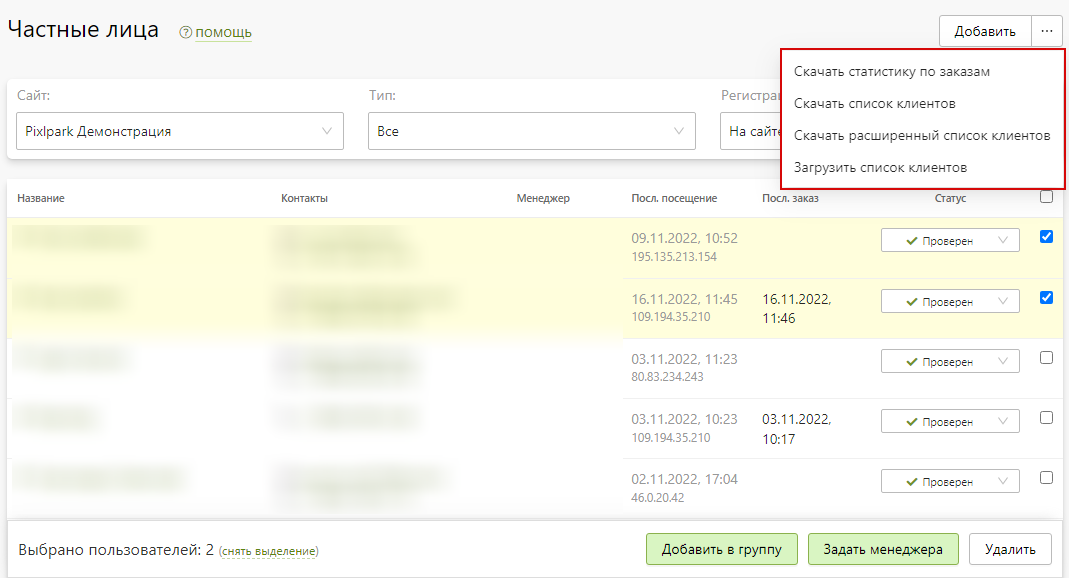
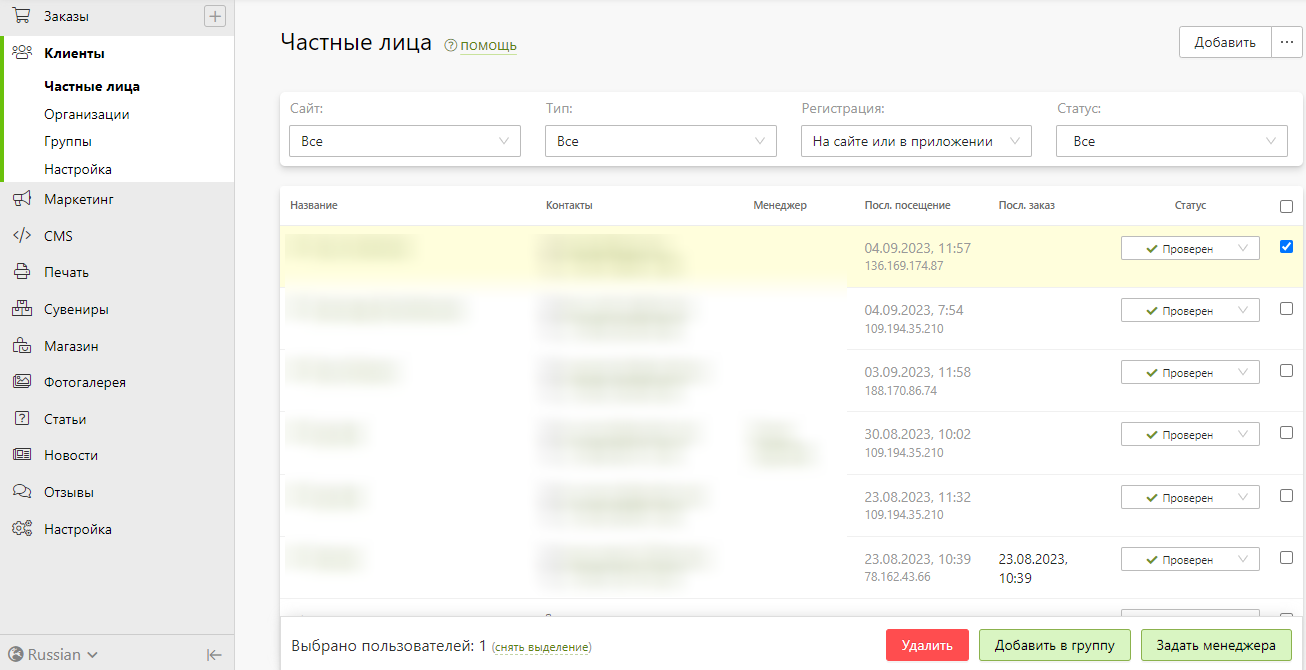
designs

diff --git a/docs/print/designs.md b/docs/print/designs.md
@@ -17,10 +17,14 @@
 * >  Подробнее о подготовке шаблонов можно узнать в [разделе](/design/businesscards).
 
 #### Основная информация
+
 * __Шаблон__ - это типовой дизайн продукта, на основании которого клиент создает собственное оформление. Например, клиент изменяет текст, загружает свои фотографии или даже добавляет новые элементы оформления.
+![](../_media/print/template-general.png)
 
 * __Название на сайте__ - название шаблона, которое выводится на сайте на странице списка шаблонов при наведении на него, на странице шаблона в виде заголовка и в редактора при наведении на шаблон во вкладке "__Шаблоны__".
+
 * __Название в панели управления__ - название шаблона в панели управления. Для удобства работы данное поле может содержать сокращенное название и технические характеристики (например, размер).
+
 * __Номера связанных шаблонов__ - номера связанных шаблонов, перечисленные через запятую. Номер шаблона можно узнать в адресной строке при открытии страницы шаблона в панели управления. Например, если адрес страницы оканчивается на "`/templates/2622444/edit`", то "__2622444__" и будет номером шаблона. При открытии страницы онлайн-редактора на сайте в адресной строке может передаваться номер шаблона, который будет загружаться в редактор для текущего товара. Однако если этот шаблон не связан с товаром, то вместо него по очереди будут пытаться загрузиться  шаблоны, связанные с ним и товаром. Данный механизм связывания используется для шаблонов одного дизайна, но разных форматов. Он нужен, чтобы при переключении товара на сайте в редакторе выбранный шаблон перестраивался под нужный формат товара.
 * __Тип обложки шаблона__ - файл, отображаемый в качестве обложки на странице списка шаблонов:
     + Первый макет шаблона.
@@ -28,20 +32,26 @@
 * __Алгоритм подстановки макетов на поверхность печати__ - автматический выбор макета для поверхности печати:
     + Наиболее подходящий по пропорциям.
     + По порядку.
-* __Автор шаблона__ - струдник компании с ролью "__Дизайнер__", который будет являться автором шаблона. Если у шаблонов задано более одного автора, а на странице списка шалонов на сайте их фильтрация производиться через группу тегов (панель слева), то первой группой тегой будет идти выбор автора. Также данный механизм может использоваться для начисления автору вознаграждения. Для этого в разделе "__Заказы / Статистика / Популярность шаблонов__" в скачиваемой статистике по шаблонам будет указан автор каждого из них. А вознаграждение может быть рассчитано вручную либо от стоимости заказов, либо от цены самого шаблона.
+* __Автор шаблона__ - сотрудник компании с ролью "__Дизайнер__", который будет являться автором шаблона. Если у шаблонов задано более одного автора, а на странице списка шалонов на сайте их фильтрация производиться через группу тегов (панель слева), то первой группой тегой будет идти выбор автора. Также данный механизм может использоваться для начисления автору вознаграждения. Для этого в разделе "__Заказы / Статистика / Популярность шаблонов__" в скачиваемой статистике по шаблонам будет указан автор каждого из них. А вознаграждение может быть рассчитано вручную либо от стоимости заказов, либо от цены самого шаблона.
 * __Тип шаблона__ - типизация шаблона, влияющая на логику работы редактора:
     + __Стандартный__ - шаблон, в котором макеты по умолчанию последовательно применяются к поверхностям печати продукта. В разделе "Дизайнерам" представлены статьи для подготовки макетов [листовой печати](/design/businesscards) и [фотокниг](/design/photobooks).  
-    Пример: [фотокнига](https://demo.pixlpark.ru/printing/hardcover-photobooks-templates/for-15x20-hard), [визитка](https://demo.pixlpark.ru/printing/businesscards-templates/for-90x50-one-sided), [футболка](https://demo.pixlpark.ru/printing/t-shirts-cliparts/for-man-white).
+    Пример: [фотокнига](https://demo.pixlpark.ru/printing/hardcover-photobooks-templates/for-15x20-hard), [визитка](https://demo.pixlpark.ru/printing/sheet-printing-templates/for-90x50-one-sided), [футболка](https://demo.pixlpark.ru/printing/t-shirts-cliparts/for-man-white).
     + __Календарь__ - шаблон, в котором макеты применяются к поверхностям печати продукта с дополнительной логикой. В разделе "Дизайнерам" представлена статья для подготовки макетов [календарей](/design/calendars). Настройка шаблона позволяет клиентам при запуске редактора дизайнов выбирать стартовый и конечный год, а в старом редакторе - еще и месяца.  
     Пример: [перекидной календарь](https://demo.pixlpark.ru/printing/wall-calendars-templates/for-a4-vert), [календарь-плакат](https://demo.pixlpark.ru/printing/poster-calendars-templates/for-a2-vert).
     + __Именная фотокнига__ - шаблон, в котором макеты применяются к поверхностям печати продукта с абсолютно уникальной логикой, учитывая имя, пол и цвет волос ребенка главного персонажа, информацию о которых редактор должен получить заранее. В разделе "Дизайнерам" представлена статья для подготовки макетов [именных фотокниг](/design/named-photobooks).  
     Пример: [детская именная фотокнига](https://demo.pixlpark.ru/photobooks/personalized).
+* __Инициализация шаблона:__
+    + __Согласно настройкам товара__
+    + __Шаблон целиком вписывается в зону печати без вылетов__
+    + __Шаблон целком заполнет зону печати без вылетов__
+    + __Шаблон постранично вписывается в страницы зоны печати без вылетов__ - элементы шаблона будут системно распределены по страницам и вписаны в поверхность печати.
+    + __Шаблон постранично заполняет страницы зоны печати без вылетов__ - элементы шаблона будут системно распределены по страницам и заполнят поверхности печати.
 * __Описание на сайте__ - текстовое описание, выводимое на сайте на странице шаблона. С помощью описания можно сделать страницу шаблона более уникальной для поисковых систем, что в свою очередь отразиться на ранжировании в поисковой выдаче.
 * __Скрывать шаблон на сайте__ - не выводить шаблон на странице списка шаблонов. Однако, страница шаблона по прежнему будет доступна по прямой ссылке (также как и использование шаблона в редакторе по прямой ссылке с передачей его номера в адресной строке). Данная функция может быть полезна для создания непубличных корпоративных дизайнов.
 * __Скрывать шаблон в блоке случайных шаблонов__ - не выводить шаблон в блоке случайных шаблонов. Однако, страница шаблона по прежнему будет доступна по прямой ссылке (также как и использование шаблона в редакторе по прямой ссылке с передачей его номера в адресной строке). Данная функция может быть полезна для создания непубличных корпоративных дизайнов.
 * __Цена__ - стоимость шаблона, которая выводится на странице списка и учитывается при создании заказа.
 * __Обложка шаблона__ - иллюстрация, которая отображается в качестве шаблона на странице списка.
-![](../_media/print/template-general.png)
+
 
 #### Печать переменных данных
 * __Печать переменных данных (VDP)__ - возможность оформления печатной продукции таким образом, что каждый экземпляр тиража обладает индивидуальными данными, при этом общие текстовые и графические элементы остаются неизменными.

diff --git a/docs/customers/b2c.md b/docs/customers/b2c.md
@@ -1,4 +1,63 @@
 # Частные лица
+
+## Список клиентов
+* В разделе представлен список всех клиентов, которые зарегистрированы на уровне аккаунта системы.
+![](../_media/customer/b2c-list.png)
+
+### Фильтрация
+* Список клиентов можно фильтровать по следующим параметрам:
+    + __Сайт__ - название сайта, где клиент был зарегистрирован (актуально, если у вас несколько сайтов). 
+    + __Тип__ - тип клиента:
+        - Все - полный перечень клиентов.
+        - Заказавшие - клиенты, оформившие заказ на сайте.
+        - Потенциальные - клиенты, еще не оформившие заказ, но имеющие добавленные товары в корзину.
+        - Посетители - клиенты, не оформившие заказ и не имеющие товаров в корзине.
+        - Подписчики - клиенты, согласившиеся получать новостную рассылку (на странице регистрации или в профиле клиента).
+        - Отписавшиеся - клиенты, отказавшиеся получать новостную рассылку (на странице регистрации или в профиле клиента).
+    + __Регистрация__ - место регистрации клиента:
+        - На сайте или в приложении.
+        - Только на сайте.
+        - Только в приложении.
+    + __Статус__ - положение клиента в системе:
+        - Зарегистрирован
+        - Проверен
+        - Опасен
+        - Заблокирован
+* Подробнее о статусах клиентов можно прочесть В РАЗДЕЛЕ ССЫЛКА.    
+
+### Создание нового клиента
+* В правом верхнем углу находится кнопка "Добавить". После нажатия на кнопку откроется окно создания нового клиента.
+* В окне нужно указать имя, фамилию, эл. почту, мобильный телефон, пароль и организацию. Последнее поле заполняется, когда требуется добавить клиента в качестве сотрудника организации (новой или существующей).
+![](../_media/customer/createNewClient.png)
+
+### Экспорт/импорт списка клиентов
+* На странице списка клиентов можно скачать/загрузить следующие файлы:
+    + Скачать статистику по заказам - список клиентов с количеством выданных заказов и их суммой.
+    + Скачать список клиентов - будет сформирован excel-файл с клиентами для выбранного в фильтре сайта.
+    + Скачать расширенный список клиентов - будет сформирован excel-файл со списком клиентов с дополнительными полями.
+    + Загрузить список клиентов (подробнее в разделе ["Импорт клиентов"](/customers/b2c?id=Импорт-клиентов)).
+![](../_media/customer/ex-imp.png)
+
+
+
+
+тут я остановилась
+### Действия
+* В правом верхнем углу расположена кнопка, позволяющая выполнить следующие действия:
+    + Добавить нового клиента, указав его имя, фамилию, эл. почту, мобильный телефон, пароль и организацию. Последнее поле заполняется, когда требуется добавить клиента в качестве сотрудника организации (новой или существующей).
+    + Скачать статистику по заказам - список клиентов с количеством выданных заказов и их суммой.
+    + Скачать список клиентов в виде эксель-таблицы.
+    + Скачать расширенный список клиентов в виде эксель-таблицы и доп. полями.
+    + Загрузить список клиентов из эксель-файла.
+
+* В списке клиентов можно изменить статус и перейти в карточку частного лица.
+
+* При выделении клиентов из списка в правом нижнем углу появляются кнопки, позволяющие выполнить следующие условия:
+    + Добавить в группу.
+    + Задать менеджера для выбранных клиентов.
+    + Удалить выбранных клиентов.
+
+
 ## Карточка клиента
 * __Содержание__
     + [Инфо](/customers/b2c?id=Инфо)
@@ -65,40 +124,6 @@
 ### Примечания для сотрудников
 * Список комментариев сотрудников компании в отношении клиента с возможностью размещения новых.
 ![](../_media/customer/notes.png)
-
-## Список клиентов
-* В данном разделе представлен список клиентов с возможностью их фильтрации и выполнения ряда действий.
-![](../_media/customer/b2c-list.png)
-
-### Фильтрация
-* 
-    + __Сайт__ - название сайта, где клиент был зарегистрирован.
-    + __Тип__ - тип клиента:
-        - Все - полный перечень клиентов.
-        - Заказавшие - клиенты, оформившие заказ на сайте.
-        - Потенциальные - клиенты, еще не оформившие заказ, но имеющие добавленные товары в корзину.
-        - Посетители - клиенты, не оформившие заказ и не имеющие товаров в корзине.
-        - Подписчики - клиенты, согласившиеся получать новостную рассылку (на странице регистрации или в профиле клиента).
-        - Отписавшиеся - клиенты, отказавшиеся получать новостную рассылку (на странице регистрации или в профиле клиента).
-    + __Регистрация__ - место регистрации клиента:
-        - На сайте или в приложении.
-        - Только на сайте.
-        - Только в приложении.
-
-### Действия
-* В правом верхнем углу расположена кнопка, позволяющая выполнить следующие действия:
-    + Добавить нового клиента, указав его имя, фамилию, эл. почту, мобильный телефон, пароль и организацию. Последнее поле заполняется, когда требуется добавить клиента в качестве сотрудника организации (новой или существующей).
-    + Скачать статистику по заказам - список клиентов с количеством выданных заказов и их суммой.
-    + Скачать список клиентов в виде эксель-таблицы.
-    + Скачать расширенный список клиентов в виде эксель-таблицы и доп. полями.
-    + Загрузить список клиентов из эксель-файла.
-
-* В списке клиентов можно изменить статус и перейти в карточку частного лица.
-
-* При выделении клиентов из списка в правом нижнем углу появляются кнопки, позволяющие выполнить следующие условия:
-    + Добавить в группу.
-    + Задать менеджера для выбранных клиентов.
-    + Удалить выбранных клиентов.
 
 ## Импорт клиентов
 * __Содержание__
